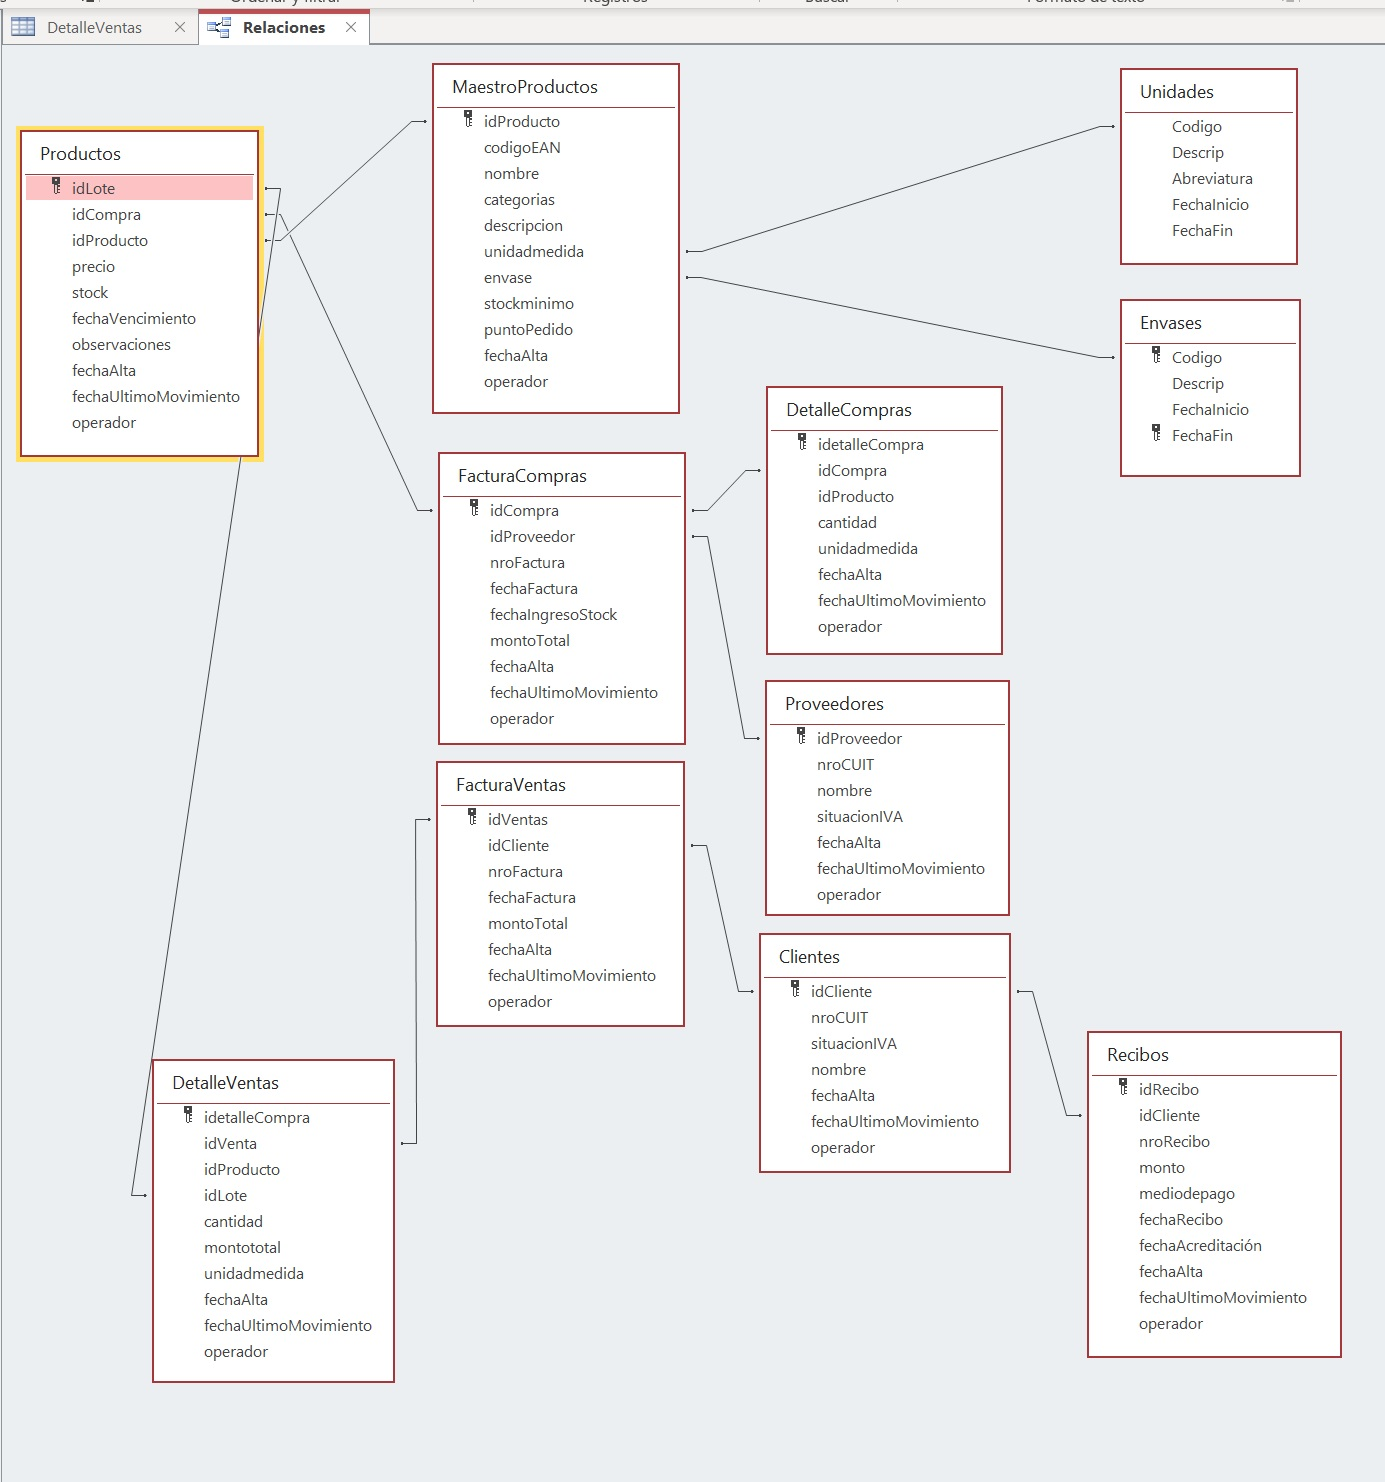
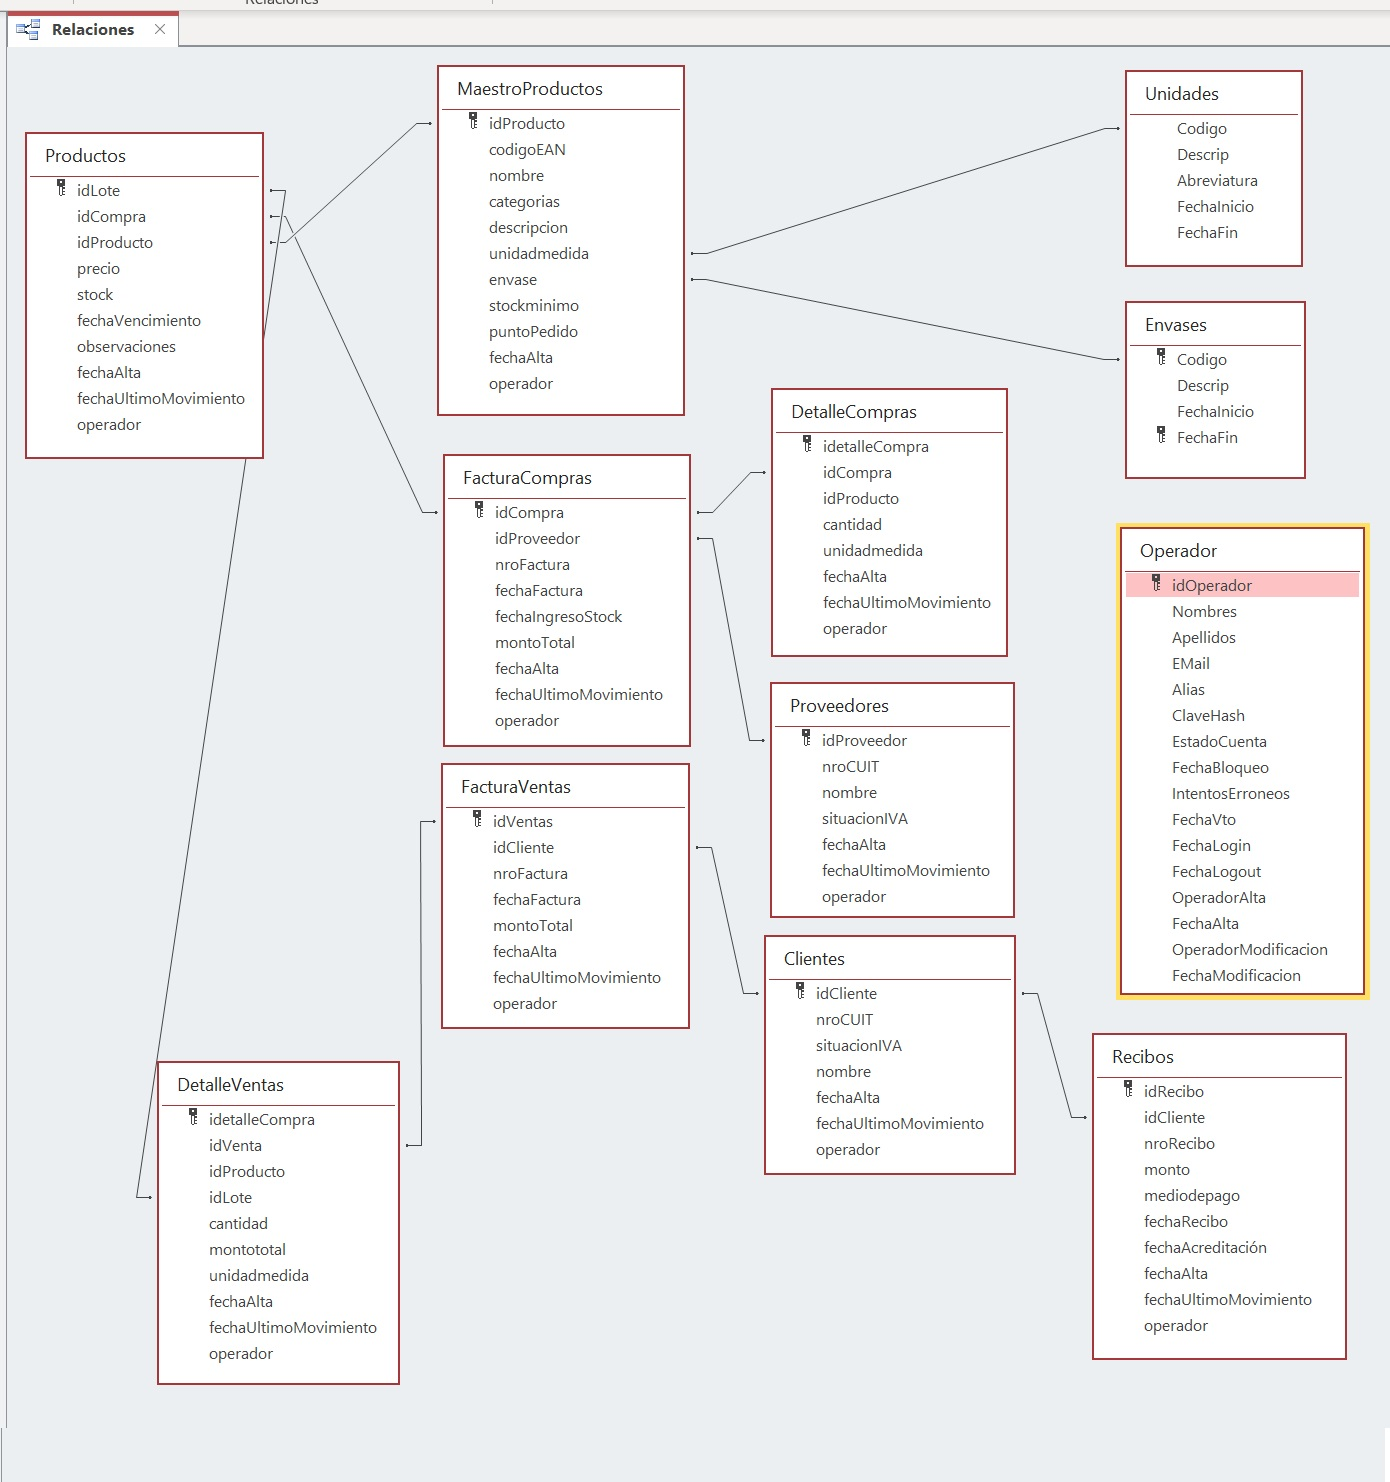
Comenzando con MondoDB

diff --git a/src/controladores/funcionesDatosMongoDB.js b/src/controladores/funcionesDatosMongoDB.js
@@ -1,0 +1,40 @@
+const { MongoClient } = require('mongodb');
+
+const uri = "mongodb://localhost:27017"; // O tu URI de MongoDB Atlas
+const client = new MongoClient( uri );
+
+async function verificarBaseDeDatos( BaseDeDatos ) {
+    let bOk = false;
+    try {
+        if ( !BaseDeDatos ) {
+            console.log("Por favor, proporciona el nombre de la base de datos a verificar.");
+            return bOk;
+        }
+        await client.connect();
+        console.log("Conexión exitosa al servidor");
+
+        // 1. Obtener la lista de bases de datos
+        const adminDb = client.db().admin();
+        const result = await adminDb.listDatabases();
+
+        // 2. Comprobar si existe la que buscas (ejemplo: 'miBaseDeDatos')
+        const existe = result.databases.some(db => db.name === BaseDeDatos );
+
+        if (existe) {
+            console.log("¡La base de datos existe!");
+            bOk = true;
+        } else {
+            console.log("La base de datos no existe (se creará al insertar el primer dato).");
+        }
+
+    } catch (error) {
+        console.error("Error al conectar:", error);
+    } finally {
+        await client.close();
+    }
+    return bOk;
+}
+
+module.exports = {
+    verificarBaseDeDatos
+}

diff --git a/src/config/mongodb.js b/src/config/mongodb.js
@@ -1,0 +1,11 @@
+const mongoose = require("mongoose");
+
+export const connectDB = () => {
+    return mongoose.connect("mongodb://localhost/TP2-ITFS29", function(error) {
+        if ( error ) {
+            throw error;
+        } else {
+            console.log("Conectado con Mongo Db TP2-ITFS29");
+        } 
+    });
+};